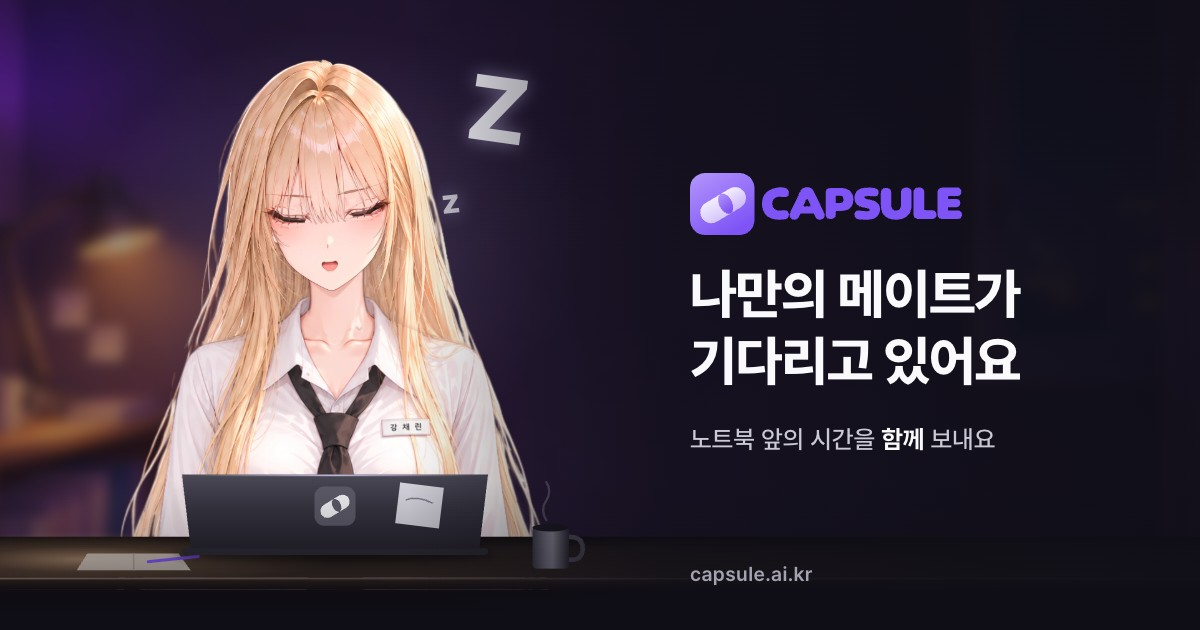
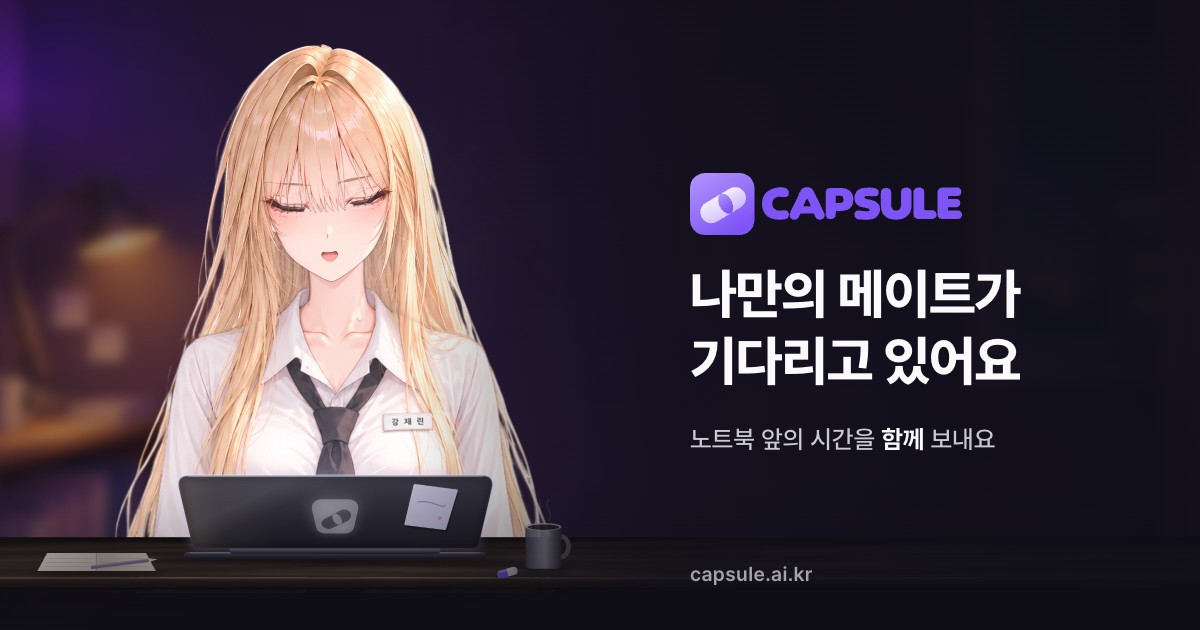
FIX: 링크 썸네일 장면을 로그인 화면 캡처로 교체(노트북 뚜껑 원근·로고 일치)
- render-og-images.mjs: 개발 서버의 로그인 화면(reduced motion still 경로)에서 무대만 투명 배경으로 캡처해 카드에 1:1로 얹음
  (z z Z·말풍선·버튼 숨김, 무대 2000×665·2x, doze-view.ts로 위치 계산)
- og-card.html: 직접 그리던 채린·책상·노트북·Z 제거, 방 배경·스크림·문구는 그대로
- og-default.jpg / og-invite.jpg 다시 생성

Changed region(s): [[0.0, 0.0603, 0.4933, 0.9349], [0.4008, 0.9048, 0.4317, 0.9349]]

diff --git a/scripts/og/og-card.html b/scripts/og/og-card.html
@@ -3,9 +3,10 @@
   Link-preview card (1200×630) of capsule.ai.kr: the login screen's 「노트북 앞에서 조는 채린」 scene, the CAPSULE logo and
   「나만의 메이트가 기다리고 있어요」. Rendered by scripts/og/render-og-images.mjs into public/og/. `?variant=invite` adds the
   「친구 초대」 badge and the reward line (the fixed image of invite links, server/og-meta.ts).
-  Only repository assets (relative paths); no 「AI 캐릭터」 tag here (PM 2026-11-26: the tag stays on the login screen).
-  The desk is a simplified copy of src/features/auth/login-variants/doze/DozeDesk.tsx with the same model geometry
-  (doze-view.ts DOZE_FRAMING, renders.json chaerin-v2-hero).
+  The scene (Chaerin, laptop, mug, desk) is a screenshot of the login stage (DozeMateStage / DozeDesk) that the render
+  script hands over as window.OG_SCENE, so it matches the login screen exactly; this file only adds the room behind it,
+  the scrim and the copy. Only repository assets otherwise (relative paths); no 「AI 캐릭터」 tag here (PM 2026-11-26:
+  the tag stays on the login screen).
 -->
 <html lang="ko">
 <head>
@@ -25,21 +26,13 @@
     position: absolute; inset: 0; width: 100%; height: 100%; object-fit: cover; object-position: 30% 40%;
     filter: blur(6px) brightness(0.62) saturate(1.1); transform: scale(1.06);
   }
-  .glow {
-    position: absolute; inset: 0;
-    background: radial-gradient(ellipse 360px 300px at var(--face-x) var(--face-y), rgba(214, 205, 255, 0.16), transparent 70%);
-  }
+  .scene { position: absolute; max-width: none; user-select: none; }
   .scrim {
     position: absolute; inset: 0;
     background:
       linear-gradient(90deg, rgba(15, 14, 23, 0) 34%, rgba(15, 14, 23, 0.7) 56%, rgba(15, 14, 23, 0.92) 100%),
       linear-gradient(0deg, rgba(15, 14, 23, 0.5) 0%, rgba(15, 14, 23, 0) 24%);
   }
-  .mate { position: absolute; user-select: none; }
-  .desk { position: absolute; inset: 0; }
-  .zz { position: absolute; font-weight: 800; color: #f0eff5; line-height: 1; text-shadow: 0 0 18px rgba(214, 205, 255, 0.55); }
-  .zz.big { font-size: 92px; transform: rotate(8deg); }
-  .zz.small { font-size: 34px; opacity: 0.78; transform: rotate(-6deg); }
 
   .copy {
     position: absolute; left: 690px; top: 0; bottom: 0; width: 460px;
@@ -69,11 +62,7 @@
 <body>
 <div class="card" id="card">
   <img class="room" src="../../src/assets/characters/chaerin-call-bg/chaerin-call-bg-landscape.webp" alt="" />
-  <div class="glow"></div>
-  <img class="mate" id="mate" src="../../src/assets/characters/chaerin-v2/chaerin-v2-doze.webp" alt="" />
-  <svg class="desk" id="desk" width="1200" height="630" viewBox="0 0 1200 630"></svg>
-  <span class="zz big" id="zBig">Z</span>
-  <span class="zz small" id="zSmall">z</span>
+  <img class="scene" id="scene" alt="" />
   <div class="scrim"></div>
 
   <div class="copy">
@@ -99,75 +88,15 @@
     el.style.backgroundImage = art.url
   }
 
-  // Model geometry (doze-view.ts / renders.json): the hero still covers model y 31..769 at 1520×1800 around x 640.
-  const HEAD_TOP = 40, DESK_TOP = 714, LID_TOP = 612, LID_W = 400, CENTER_X = 640, EYES_Y = 300
-  const still = { w: 1520, h: 1800, modelTop: 31, modelH: 738 }
-  const mateCx = 335, headY = 40, deskY = 552
-  const k = (deskY - headY) / (DESK_TOP - HEAD_TOP)
-  const X = mx => mateCx + (mx - CENTER_X) * k
-  const Y = my => headY + (my - HEAD_TOP) * k
-  const u = v => v * k
-
-  const mate = document.getElementById('mate')
-  const stillScale = (still.modelH * k) / still.h
-  Object.assign(mate.style, { width: `${still.w * stillScale}px`, height: `${still.h * stillScale}px`, left: `${mateCx - (still.w * stillScale) / 2}px`, top: `${Y(still.modelTop)}px` })
-  const card = document.getElementById('card')
-  card.style.setProperty('--face-x', `${mateCx}px`)
-  card.style.setProperty('--face-y', `${Y(EYES_Y)}px`)
-  Object.assign(document.getElementById('zBig').style, { left: `${X(CENTER_X + 175)}px`, top: `${Y(70)}px` })
-  Object.assign(document.getElementById('zSmall').style, { left: `${X(CENTER_X + 140)}px`, top: `${Y(230)}px` })
-
-  const deskTop = Y(DESK_TOP)
-  const surfaceTop = deskTop - u(20), frontEdge = deskTop + u(34), lipBottom = frontEdge + u(15)
-  const lidBottom = deskTop - u(5), lidTop = Y(LID_TOP)
-  const lidBottomW = u(LID_W) * 0.95, lidTopW = lidBottomW * 1.06, cx = X(CENTER_X)
-  const lid = [
-    [cx - lidTopW / 2, lidTop], [cx + lidTopW / 2, lidTop], [cx + lidBottomW / 2, lidBottom], [cx - lidBottomW / 2, lidBottom],
-  ].map(p => p.join(',')).join(' ')
-  const logoSize = u(54), logoY = lidTop + (lidBottom - lidTop) * 0.44 - logoSize / 2
-  const mug = { x: cx + lidBottomW / 2 + u(70), y: deskTop - u(34), w: u(48), h: u(56) }
-  const book = { x: cx - lidBottomW / 2 - u(150), y: deskTop + u(2) }
-
-  document.getElementById('desk').innerHTML = `
-    <defs>
-      <linearGradient id="top" x1="0" y1="0" x2="0" y2="1"><stop offset="0" stop-color="#1f1815"/><stop offset="1" stop-color="#32261f"/></linearGradient>
-      <linearGradient id="lip" x1="0" y1="0" x2="0" y2="1"><stop offset="0" stop-color="#3a2d25"/><stop offset=".35" stop-color="#261d18"/><stop offset="1" stop-color="#130f0d"/></linearGradient>
-      <linearGradient id="under" x1="0" y1="0" x2="0" y2="1"><stop offset="0" stop-color="#0f0d10"/><stop offset="1" stop-color="#0f0e17"/></linearGradient>
-      <linearGradient id="edge" x1="0" y1="0" x2="1" y2="0"><stop offset="0" stop-color="#ffd9b8" stop-opacity=".42"/><stop offset=".35" stop-color="#f3dccb" stop-opacity=".22"/><stop offset="1" stop-color="#d9d5f1" stop-opacity=".08"/></linearGradient>
-      <linearGradient id="contact" x1="0" y1="0" x2="0" y2="1"><stop offset="0" stop-color="#000" stop-opacity=".55"/><stop offset="1" stop-color="#000" stop-opacity="0"/></linearGradient>
-      <radialGradient id="pool" cx=".5" cy=".5" r=".5"><stop offset="0" stop-color="#ffc996" stop-opacity=".55"/><stop offset=".45" stop-color="#ffb87a" stop-opacity=".16"/><stop offset="1" stop-color="#ffb87a" stop-opacity="0"/></radialGradient>
-      <linearGradient id="lidFill" x1="0" y1="0" x2="0" y2="1"><stop offset="0" stop-color="#4a4855"/><stop offset=".5" stop-color="#34323d"/><stop offset="1" stop-color="#24232c"/></linearGradient>
-      <linearGradient id="rim" x1="0" y1="0" x2="1" y2="0"><stop offset="0" stop-color="#e6deff" stop-opacity="0"/><stop offset=".5" stop-color="#e6deff" stop-opacity=".75"/><stop offset="1" stop-color="#e6deff" stop-opacity="0"/></linearGradient>
-      <linearGradient id="mugFill" x1="0" y1="0" x2="1" y2="0"><stop offset="0" stop-color="#403e4b"/><stop offset=".38" stop-color="#8f8d9c"/><stop offset=".55" stop-color="#a4a3b0"/><stop offset="1" stop-color="#2f2d38"/></linearGradient>
-      <filter id="soft" x="-50%" y="-50%" width="200%" height="200%"><feGaussianBlur stdDeviation="${Math.max(2, u(6))}"/></filter>
-    </defs>
-    <rect x="0" y="${surfaceTop}" width="1200" height="${frontEdge - surfaceTop}" fill="url(#top)"/>
-    <rect x="0" y="${surfaceTop}" width="1200" height="${u(16)}" fill="url(#contact)"/>
-    <ellipse cx="${cx - u(330)}" cy="${deskTop + u(10)}" rx="${u(320)}" ry="${u(38)}" fill="url(#pool)" style="mix-blend-mode:screen"/>
-    <rect x="0" y="${frontEdge}" width="1200" height="${lipBottom - frontEdge}" fill="url(#lip)"/>
-    <rect x="0" y="${frontEdge}" width="1200" height="${Math.max(1, u(2))}" fill="url(#edge)"/>
-    <rect x="0" y="${lipBottom}" width="1200" height="${630 - lipBottom}" fill="url(#under)"/>
-
-    <polygon points="${book.x},${book.y + u(22)} ${book.x + u(150)},${book.y + u(22)} ${book.x + u(134)},${book.y} ${book.x + u(14)},${book.y}" fill="#d4cbc0" opacity=".85"/>
-    <line x1="${book.x + u(75)}" y1="${book.y}" x2="${book.x + u(75)}" y2="${book.y + u(22)}" stroke="#a69d93" stroke-width="${u(2)}"/>
-    <rect x="${book.x + u(92)}" y="${book.y + u(9)}" width="${u(70)}" height="${u(4)}" rx="${u(2)}" fill="#7e54f6" transform="rotate(-6 ${book.x + u(92)} ${book.y + u(9)})"/>
-
-    <ellipse cx="${cx}" cy="${lidBottom + u(8)}" rx="${lidBottomW * 0.56}" ry="${u(10)}" fill="#000" opacity=".55" filter="url(#soft)"/>
-    <rect x="${cx - lidBottomW * 0.53}" y="${lidBottom}" width="${lidBottomW * 1.06}" height="${u(9)}" rx="${u(4)}" fill="#2a2932"/>
-    <polygon points="${lid}" fill="url(#lidFill)"/>
-    <rect x="${cx - lidTopW / 2 + u(6)}" y="${lidTop}" width="${lidTopW - u(12)}" height="${Math.max(1.2, u(2.2))}" fill="url(#rim)"/>
-    <rect x="${cx - logoSize / 2}" y="${logoY}" width="${logoSize}" height="${logoSize * 0.96}" rx="${logoSize * 0.24}" fill="#5e5c69" opacity=".9"/>
-    <image href="../../design/brand/capsule-logo-2026-11-22-v2/capsule-glyph-white.svg" x="${cx - logoSize * 0.36}" y="${logoY + logoSize * 0.2}" width="${logoSize * 0.72}" height="${logoSize * 0.57}" opacity=".9"/>
-    <g transform="rotate(7 ${cx + lidBottomW * 0.3} ${lidTop + u(30)})">
-      <rect x="${cx + lidBottomW * 0.22}" y="${lidTop + u(14)}" width="${u(58)}" height="${u(54)}" fill="#e1e0e8" opacity=".92"/>
-      <path d="M ${cx + lidBottomW * 0.22 + u(10)} ${lidTop + u(36)} q ${u(14)} ${-u(8)} ${u(36)} 0" stroke="#807e8d" stroke-width="${u(2)}" fill="none"/>
-    </g>
-
-    <rect x="${mug.x}" y="${mug.y}" width="${mug.w}" height="${mug.h}" rx="${u(6)}" fill="url(#mugFill)"/>
-    <ellipse cx="${mug.x + mug.w / 2}" cy="${mug.y + u(2)}" rx="${mug.w / 2}" ry="${u(5)}" fill="#1a1922"/>
-    <path d="M ${mug.x + mug.w} ${mug.y + u(14)} q ${u(20)} 0 ${u(18)} ${u(18)} q ${-u(2)} ${u(14)} ${-u(18)} ${u(12)}" stroke="#5e5c69" stroke-width="${u(6)}" fill="none"/>
-    <path d="M ${mug.x + u(18)} ${mug.y - u(8)} q ${-u(8)} ${-u(14)} 0 ${-u(26)} q ${u(8)} ${-u(12)} 0 ${-u(24)}" stroke="#f0eff5" stroke-opacity=".28" stroke-width="${u(3)}" fill="none" stroke-linecap="round"/>
-  `
+  // The login screen's stage (DozeMateStage + DozeDesk), captured by the render script; see render-og-images.mjs.
+  const scene = window.OG_SCENE
+  const sceneEl = document.getElementById('scene')
+  if (scene) {
+    Object.assign(sceneEl.style, { left: `${scene.left}px`, top: `${scene.top}px`, width: `${scene.width}px`, height: `${scene.height}px` })
+    sceneEl.src = scene.url
+  } else {
+    sceneEl.remove()
+  }
   document.fonts.ready.then(() => { document.body.dataset.ready = 'true' })
 </script>
 </body>
